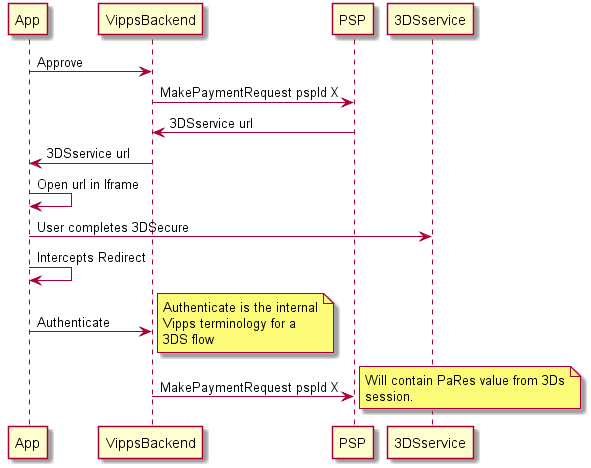
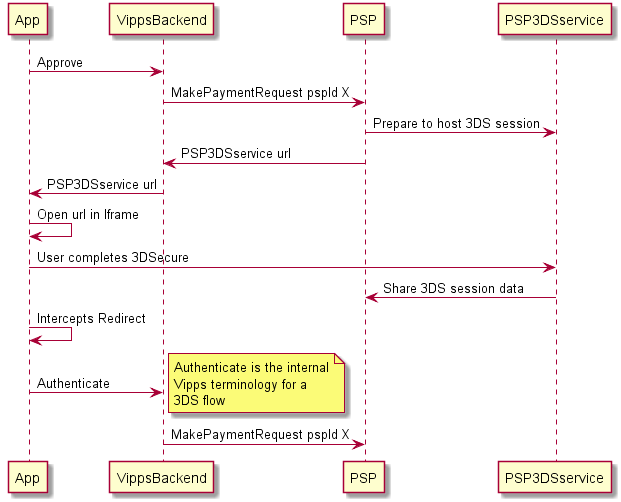
updated psd2 fallback plan with hosted session

diff --git a/vipps-psp-api.md b/vipps-psp-api.md
@@ -139,11 +139,11 @@ In order to be allow for delegated SCA through the PSD2 directive every transact
 
 ## 3DSecure Fallback.
 
-In case of a soft decline (issuer demanded 3DS) the PSP will need to provide the 3DSecure to Vipps.
+In case of a soft decline (issuer demanded 3DS) the PSP will host a 3DSecure session and need to provide the url to Vipps.
 
 ![PSP API sequence diagram](diagrams/3DSFallbackFlow.png)
 
-Format of MakePaymentRequest response provided by the PSP in case of a soft decline
+Format of MakePaymentRequest response provided by the PSP in case of a soft decline:
 
 ```json
 {
@@ -154,12 +154,12 @@ Format of MakePaymentRequest response provided by the PSP in case of a soft decl
   "paymentInfo": {
     "pspTransactionId": "7686f7788898767977",
     "status": "3DS",
-    "3DSUrl": "https://terminal.com/example"
+    "3DSUrl": "https://psp.com/3ds/123123"
   }
 }
 ```
 
-The Vipps App will then host the URL in an iframe, letting the user complete the 3DSecure flow. Vipps will then forward the data from the 3DSecure session. The data will be sent in a an otherwise identical version of the MakePaymentRequest that got the soft decline.
+The Vipps App will then host the URL in an iframe, letting the user complete the 3DSecure flow. Vipps will then send an otherwise identical version of the makepayment request. Letting the PSP complete the transaction as neeeded.
 
 ```json
 Authorization: makePaymentToken
@@ -168,9 +168,6 @@ Authorization: makePaymentToken
   "merchantSerialNumber": "123456",
   "cardData": "f0a29801b4#d4ff30e221fa2980ff30e2",
   "confirmed": "YES/TIMEOUT/CANCEL",
-  "3DSecureData": {
[1 lines of base64/hex data omitted]
-  }
 }
 ```
 
